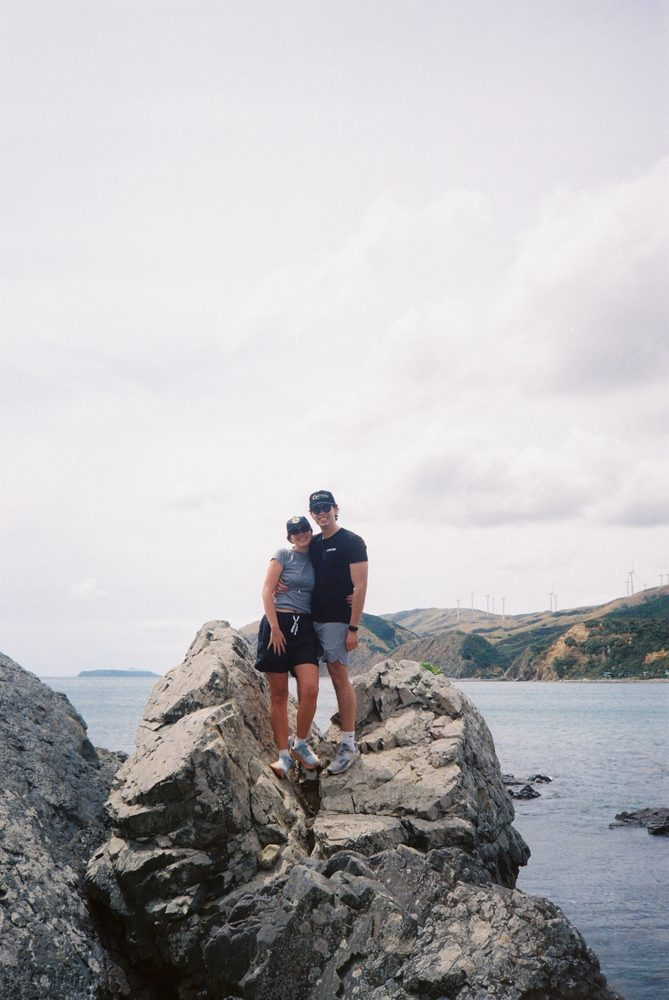
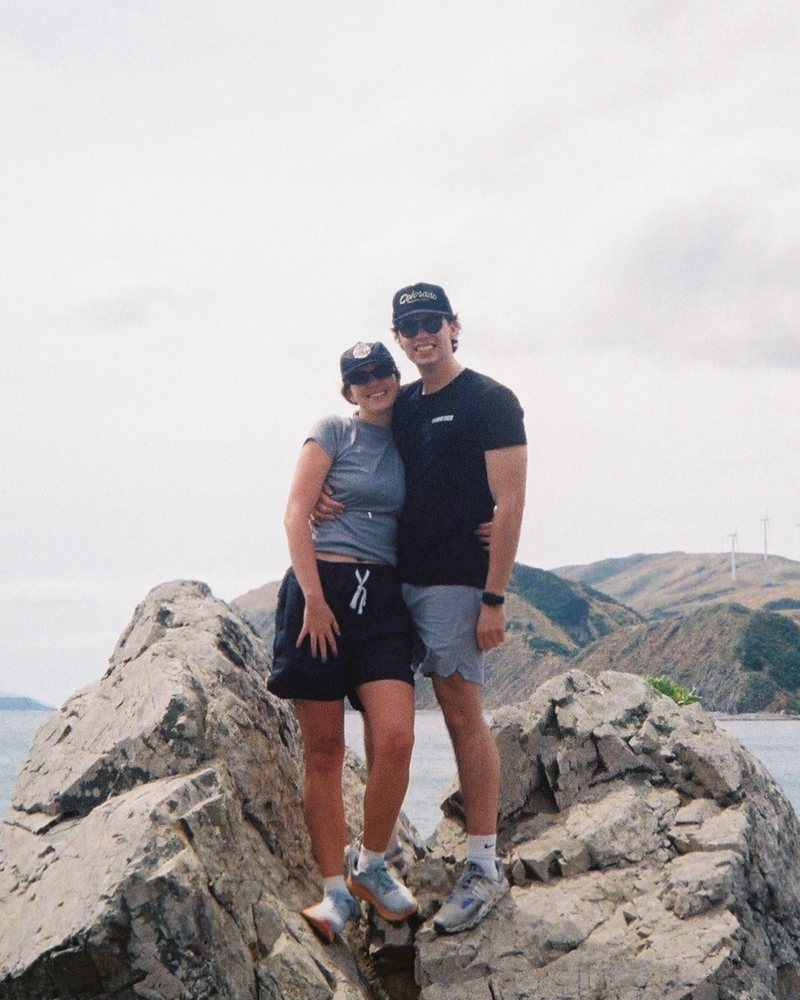
Our Story fades per moment, zoomed photos, text tweaks, scrolling photo reel
Claude-Session: https://claude.ai/code/session_01UymhP7iFRcx3FYSxcPosG7

diff --git a/index.html b/index.html
@@ -23,10 +23,10 @@
 <link rel="preconnect" href="https://fonts.googleapis.com">
 <link rel="preconnect" href="https://fonts.gstatic.com" crossorigin>
 <link rel="stylesheet" href="https://fonts.googleapis.com/css2?family=Jost:wght@400;500;600&family=Norican&family=Playfair+Display:ital@1&display=swap">
-<link rel="stylesheet" href="assets/css/styles.css?v=20261104b">
+<link rel="stylesheet" href="assets/css/styles.css?v=20261104c">
 </head>
 <body>
-<script src="assets/js/art.js?v=20261104b"></script>
+<script src="assets/js/art.js?v=20261104c"></script>
 
 <!-- The cover: a simple sign-in. Guests enter their phone number to open the book. -->
 <section class="cover" id="cover">
@@ -121,7 +121,7 @@
             </div>
           </li>
           <li class="moment">
-            <figure class="moment-photo"><img src="assets/img/story-03.jpg" alt="McKenna and Chandler eating sandwiches on a bench in Sorrento" width="750" height="1000" loading="lazy"></figure>
+            <figure class="moment-photo"><img src="assets/img/story-03.jpg" alt="McKenna and Chandler eating sandwiches on a bench in Sorrento" width="800" height="1000" loading="lazy"></figure>
             <div class="moment-text">
               <p class="moment-when">Summer 2022 · Sorrento, Italy</p>
               <h3 class="script">One day in Sorrento</h3>
@@ -133,11 +133,11 @@
             <div class="moment-text">
               <p class="moment-when">October 2022 · New Zealand</p>
               <h3 class="script">A leap across the world</h3>
-              <p>McKenna took a huge leap and moved halfway across the world to experience a totally different way of working, culture and life. Cue extreme long distance.</p>
+              <p>McKenna took a huge leap, moving halfway across the world to New Zealand and experiencing a totally different way of working, culture and life. Cue extreme long distance.</p>
             </div>
           </li>
           <li class="moment">
-            <figure class="moment-photo"><img src="assets/img/story-05.jpg" alt="McKenna and Chandler standing on rocks by the sea in New Zealand" width="669" height="1000" loading="lazy"></figure>
+            <figure class="moment-photo"><img src="assets/img/story-05.jpg" alt="McKenna and Chandler standing on rocks by the sea in New Zealand" width="800" height="1000" loading="lazy"></figure>
             <div class="moment-text">
               <p class="moment-when">February 2023 · New Zealand</p>
               <h3 class="script">Bringing her home</h3>
@@ -157,7 +157,7 @@
             <div class="moment-text">
               <p class="moment-when">October 2024 · San Francisco, CA</p>
               <h3 class="script">Our place in the Marina</h3>
-              <p>After a year of fun-filled twenties with roommates, we moved into our own place in the Marina. It&#39;s still our home today.</p>
+              <p>After over a year of fun-filled twenties with roommates, we moved into our own place in the Marina. It&#39;s still our home today.</p>
             </div>
           </li>
           <li class="moment">
@@ -360,12 +360,30 @@
         </form>
       </div>
     </section>
+    <!-- Photo reel: a strip of photos that drifts slowly sideways and loops.
+         Add or swap photos in the list; site.js repeats them so the loop is seamless. -->
+    <section class="page page-reel fade" id="photos">
+      <div class="section-head center">
+        <p class="eyebrow">Photos</p>
+        <h2 class="script">A few favorites</h2>
+      </div>
+      <div class="reel">
+        <ul class="reel-track">
+            <li><img src="assets/img/us-kiss.jpg" alt="McKenna and Chandler kissing on the beach" width="1067" height="1600" loading="lazy"></li>
+            <li><img src="assets/img/story-09.jpg" alt="Chandler proposing to McKenna" width="667" height="1000" loading="lazy"></li>
+            <li><img src="assets/img/us-dancing.jpg" alt="McKenna and Chandler dancing on the beach" width="1067" height="1600" loading="lazy"></li>
+            <li><img src="assets/img/story-10.jpg" alt="McKenna showing her ring" width="667" height="1000" loading="lazy"></li>
+            <li><img src="assets/img/story-08.jpg" alt="McKenna and Chandler above Positano" width="667" height="1000" loading="lazy"></li>
+            <li><img src="assets/img/story-06.jpg" alt="McKenna and Chandler at the Golden Gate Bridge" width="750" height="1000" loading="lazy"></li>
+        </ul>
+      </div>
+    </section>
   </main>
 
   <footer id="site-footer" class="site-footer"></footer>
 </div>
 
-<script src="assets/js/site.js?v=20261104b"></script>
-<script src="assets/js/home.js?v=20261104b"></script>
+<script src="assets/js/site.js?v=20261104c"></script>
+<script src="assets/js/home.js?v=20261104c"></script>
 </body>
 </html>

diff --git a/assets/css/styles.css b/assets/css/styles.css
@@ -1021,3 +1021,24 @@ html.paged .page-ourstory { align-content: start; }
 .moment-photo.wide { width: min(92%, 420px); }
 .moment-photo.wide img { aspect-ratio: auto; }
 @media (min-width: 760px) { .moment-photo.wide { width: min(100%, 440px); } }
+
+/* Our story moments fade in as they come up and fade away as you scroll past */
+html.paged .moment { opacity: 0; transform: translateY(28px); transition: opacity 1.1s ease, transform 1.3s cubic-bezier(0.2, 0.6, 0.2, 1); }
+html.paged .moment.seen { opacity: 1; transform: none; }
+
+/* ---------- Photo reel: photos drift slowly sideways in a loop ---------- */
+html.paged .page-reel { min-height: 0; padding-inline: 0; }
+.page-reel .section-head { margin-bottom: 32px; }
+.page-reel h2.script { font-size: clamp(2.4rem, calc(6.5 * var(--vw, 1vw)), 3.6rem); line-height: 1.05; color: var(--cobalt); }
+.reel { overflow: hidden; width: 100%; padding: 14px 0 22px;
+  -webkit-mask-image: linear-gradient(to right, transparent, #000 6%, #000 94%, transparent);
+  mask-image: linear-gradient(to right, transparent, #000 6%, #000 94%, transparent); }
+.reel-track { list-style: none; margin: 0; padding: 0; display: flex; gap: 22px; width: max-content;
+  animation: reel var(--reel-time, 60s) linear infinite; }
+.reel:hover .reel-track { animation-play-state: paused; }
+.reel-track li { flex: none; height: clamp(240px, calc(34 * var(--vh, 1vh)), 380px); outline: 2px solid var(--gold); outline-offset: 4px; background: var(--ivory-2); }
+.reel-track li:nth-child(odd) { transform: rotate(-1.5deg); }
+.reel-track li:nth-child(even) { transform: rotate(1.5deg); }
+.reel-track img { height: 100%; width: auto; display: block; cursor: zoom-in; }
+@keyframes reel { to { transform: translateX(calc(-50% - 11px)); } }
+@media (prefers-reduced-motion: reduce) { .reel { overflow-x: auto; } .reel-track { animation: none; } }

diff --git a/assets/js/home.js b/assets/js/home.js
@@ -458,8 +458,21 @@
   // Coming back with the browser's Back button restores a frozen page; load
   // it fresh instead so the title page plays its opening again.
   /* ---------- Venue photos: tap one to see it big, tap again to close ---------- */
+  /* ---------- Photo reel: repeat the photos so the loop never shows a gap ---------- */
   (function () {
-    var photos = Array.prototype.slice.call(document.querySelectorAll(".gallery img, .moment-photo img"));
+    var track = document.querySelector(".reel-track");
+    if (!track) return;
+    var items = Array.prototype.slice.call(track.children);
+    items.forEach(function (li) {
+      var copy = li.cloneNode(true);
+      copy.setAttribute("aria-hidden", "true");
+      track.appendChild(copy);
+    });
+    track.style.setProperty("--reel-time", (items.length * 9) + "s");   // about the same pace however many photos
+  })();
+
+  (function () {
+    var photos = Array.prototype.slice.call(document.querySelectorAll(".gallery img, .moment-photo img, .reel img"));
     if (!photos.length) return;
     var box = document.createElement("div");
     box.className = "lightbox";
@@ -515,6 +528,14 @@
     box.addEventListener("click", close);
     document.addEventListener("keydown", function (e) { if (e.key === "Escape") close(); });
   })();
+
+  /* ---------- Our story: each moment fades in and away as it passes ---------- */
+  if ("IntersectionObserver" in window) {
+    var momentIO = new IntersectionObserver(function (entries) {
+      entries.forEach(function (en) { en.target.classList.toggle("seen", en.isIntersecting); });
+    }, { rootMargin: "-12% 0px -12% 0px" });
+    document.querySelectorAll(".moment").forEach(function (el) { momentIO.observe(el); });
+  }
 
   window.addEventListener("pageshow", function (e) { if (e.persisted) location.reload(); });
 

diff --git a/travel.html b/travel.html
@@ -23,10 +23,10 @@
 <link rel="preconnect" href="https://fonts.googleapis.com">
 <link rel="preconnect" href="https://fonts.gstatic.com" crossorigin>
 <link rel="stylesheet" href="https://fonts.googleapis.com/css2?family=Jost:wght@400;500;600&family=Norican&family=Playfair+Display:ital@1&display=swap">
-<link rel="stylesheet" href="assets/css/styles.css?v=20261104b">
+<link rel="stylesheet" href="assets/css/styles.css?v=20261104c">
 </head>
 <body class="page-travel">
-<script src="assets/js/art.js?v=20261104b"></script>
+<script src="assets/js/art.js?v=20261104c"></script>
 <header id="site-header" class="site-header"></header>
 
 <main>
@@ -194,6 +194,6 @@
 </main>
 
 <footer id="site-footer" class="site-footer"></footer>
-<script src="assets/js/site.js?v=20261104b"></script>
+<script src="assets/js/site.js?v=20261104c"></script>
 </body>
 </html>
